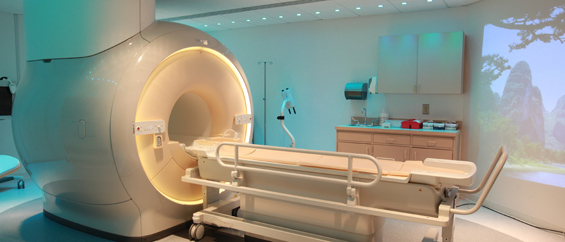
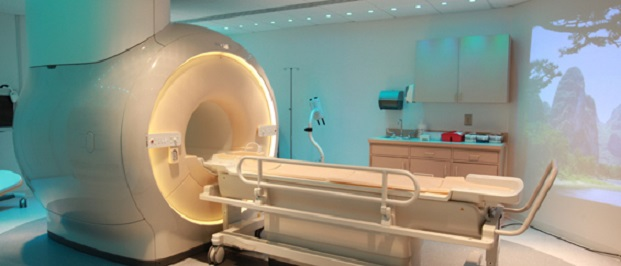
added image

diff --git a/index.html b/index.html
@@ -37,6 +37,10 @@
 
     <!-- hero/jumbotron starts -->
     <section class="hero">
+      <div class="hero-image">
+        <img src="assets/images/radiology_static_1.jpg" alt="picture of mri" />
+      </div>
+            
       <div class="hero-cta">
         <h2>Web development for healthcare delivery</h2>
 

diff --git a/assets/style.css b/assets/style.css
@@ -77,7 +77,7 @@ footer nav ul li a {
 /* hero styles start here */
 
 .hero {
-    background-image: url("..assets/images/radiology_static_1.jpg");
+    background-image: url("assets/images/radiology_static_1.jpg");
     background-size: cover;
     background-position: center;
     display: flex;
